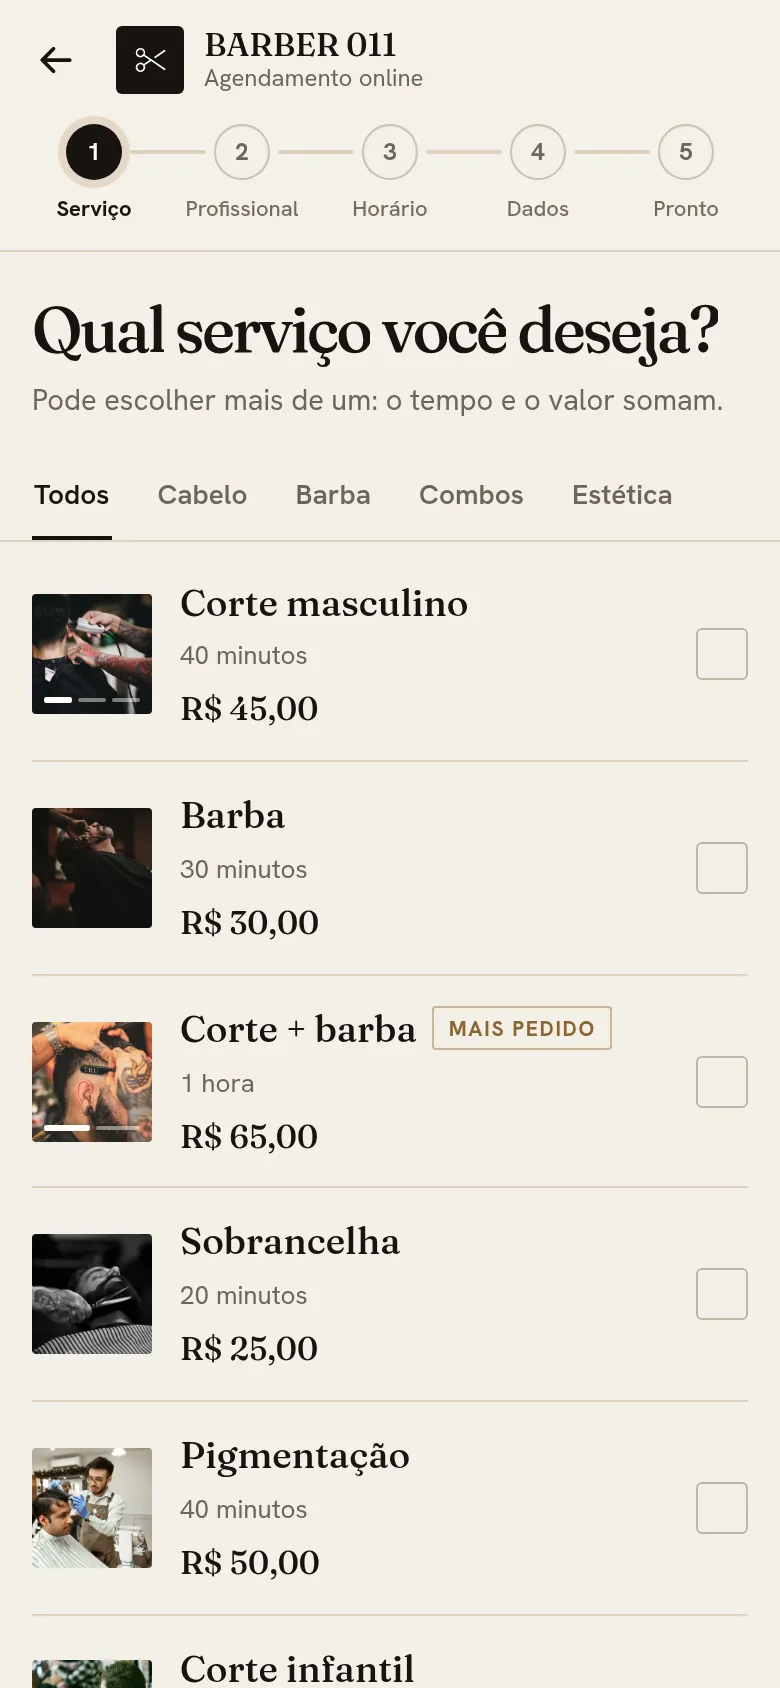
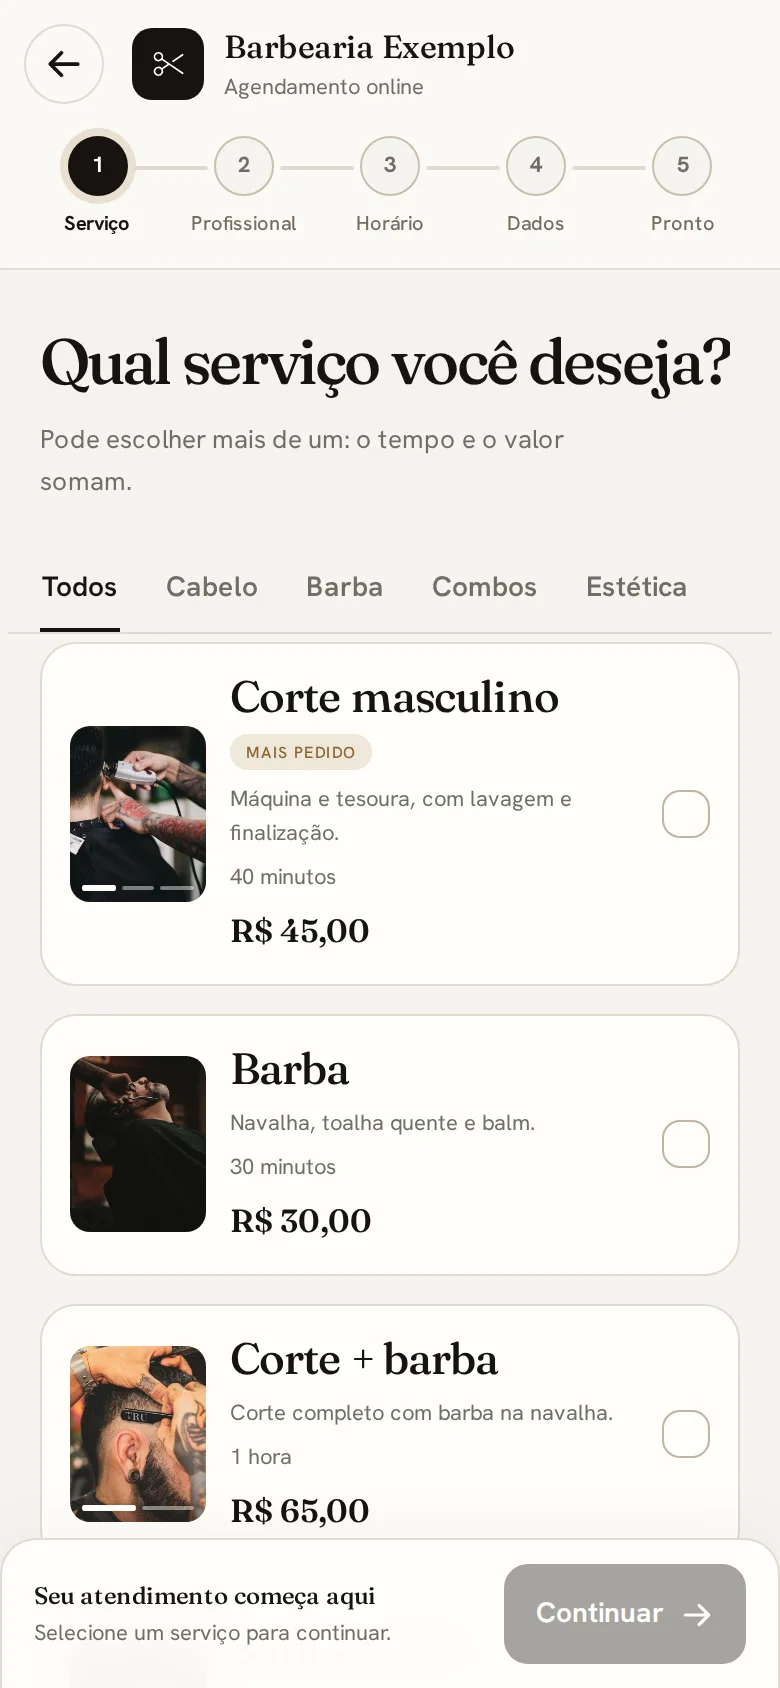
Sync StudioFlow: live demo shop on the sales site
Claude-Session: https://claude.ai/code/session_019SWBJN4ekuR9TEDpAwqbDw

diff --git a/studioflow/src/features/landing/landing.tsx b/studioflow/src/features/landing/landing.tsx
@@ -14,6 +14,7 @@ import {
 } from "@phosphor-icons/react/dist/ssr";
 import { WhatsAppIcon } from "@/components/brand-icons";
 import { legal } from "@/features/legal/legal";
+import { showcaseSlug } from "@/lib/showcase";
 import { DayStory, LiveDemo, NoShowCalculator } from "./landing-motion";
 import "./landing.css";
 
@@ -89,12 +90,17 @@ const faq = [
   ],
 ] as const;
 
-function Cta({ dark = false }: { dark?: boolean }) {
+function Cta({ dark = false, demo = false }: { dark?: boolean; demo?: boolean }) {
   return (
     <div className="lp-ctas">
       <Link href={start} className={`lp-btn ${dark ? "is-light" : ""}`}>
         Testar grátis <ArrowRight size={18} weight="bold" />
       </Link>
+      {demo && (
+        <Link href={`/${showcaseSlug}`} className="lp-btn-ghost">
+          Ver demonstração ao vivo
+        </Link>
+      )}
       {whatsapp && (
         <a href={whatsapp} className={`lp-btn-ghost ${dark ? "is-light" : ""}`} target="_blank" rel="noreferrer">
           <WhatsAppIcon size={18} /> Falar no WhatsApp
@@ -138,7 +144,7 @@ export function Landing() {
               Página própria, agenda online, lembrete no WhatsApp e uma recepcionista com IA que responde enquanto você corta.
               Tudo numa assinatura só.
             </p>
-            <Cta />
+            <Cta demo />
             <ul className="lp-trust">
               <li><Check size={16} weight="bold" /> Sem app para o cliente baixar</li>
               <li><Check size={16} weight="bold" /> Sem fidelidade</li>
@@ -146,7 +152,7 @@ export function Landing() {
             </ul>
           </div>
           <div className="lp-hero-art" aria-hidden="true">
-            <img className="lp-shot-desk" src="/landing/dashboard.webp" alt="" width={1600} height={1000} />
+            <img className="lp-shot-desk" src="/landing/salon.webp" alt="" width={1600} height={1000} />
             <LiveDemo />
           </div>
         </section>
@@ -180,6 +186,9 @@ export function Landing() {
               <li><DeviceMobile size={20} weight="duotone" /> Vira app na tela de início do cliente</li>
               <li><Bell size={20} weight="duotone" /> Lembrete no WhatsApp e por e-mail</li>
             </ul>
+            <Link href={`/${showcaseSlug}`} className="lp-btn is-outline">
+              Agendar na barbearia de exemplo <ArrowRight size={18} weight="bold" />
+            </Link>
           </div>
           <div className="lp-phone is-solo">
             <img src="/landing/phone-book.webp" alt="Tela de agendamento com serviços, fotos e preços" width={780} height={1688} loading="lazy" />
@@ -212,17 +221,17 @@ export function Landing() {
         <section className="lp-feature is-wide" data-reveal>
           <div className="lp-feature-text">
             <p className="lp-eyebrow">Painel do dono</p>
-            <h2>O dia inteiro numa tela.</h2>
+            <h2>Sua barbearia ao vivo, vista de cima.</h2>
             <p>
-              Quem está na cadeira, quem chega em seguida, quanto entrou hoje, comissão de cada barbeiro, clientes que sumiram
-              e o que a recepcionista resolveu sozinha. No computador ou no celular.
+              Cada cadeira mostra quem está sendo atendido, quanto falta e quem vem depois. Quem chegou espera no sofá.
+              Concluir e cobrar é um toque, e o caixa do dia muda na hora. No computador ou no celular.
             </p>
             <ul className="lp-list is-row">
               <li><ChartLineUp size={20} weight="duotone" /> Relatórios por canal</li>
               <li><CurrencyCircleDollar size={20} weight="duotone" /> Sinal por Pix e clube de assinatura</li>
             </ul>
           </div>
-          <img className="lp-shot-wide" src="/landing/dashboard.webp" alt="Painel do dono com o dia, recebidos e atendimentos" width={1600} height={1000} loading="lazy" />
+          <img className="lp-shot-wide" src="/landing/salon.webp" alt="Salão ao vivo: as cadeiras vistas de cima com o barbeiro, o cliente e o tempo que falta" width={1600} height={1000} loading="lazy" />
         </section>
 
         <section className="lp-feature is-wide is-reverse" data-reveal>

diff --git a/studioflow/src/features/public/public-page.tsx b/studioflow/src/features/public/public-page.tsx
@@ -27,6 +27,7 @@ import {
 import { usePublicCatalog } from "./use-public-catalog";
 import type { PublicCatalog } from "./types";
 import { money } from "@/lib/utils";
+import { showcaseSlug } from "@/lib/showcase";
 import { AssistantChat } from "./assistant-chat";
 import { businessClock, publicAccentStyle } from "./public-branding";
 import { PublicServices } from "./public-services";
@@ -204,6 +205,13 @@ export function PublicPage({
         Ir para os serviços
       </a>
       <PublicRefreshNotice error={error} refreshing={loading} retry={reload} />
+      {slug === showcaseSlug && (
+        <p className="pp-showcase">
+          Barbearia de demonstração do StudioFlow. Pode agendar: ninguém
+          recebe aviso.
+          <Link href="/">Quero a minha</Link>
+        </p>
+      )}
 
       <header className="pp-cover">
         {business.cover ? (

diff --git a/studioflow/src/features/public/public-page.css b/studioflow/src/features/public/public-page.css
@@ -37,6 +37,27 @@
   text-transform: uppercase;
 }
 
+/* The sales site's demo shop says so above the cover */
+.pp-showcase {
+  display: flex;
+  flex-wrap: wrap;
+  align-items: center;
+  justify-content: center;
+  gap: 4px 12px;
+  margin: 0;
+  padding: 10px var(--pp-gutter);
+  background: var(--pp-ink);
+  color: var(--pp-paper);
+  font-size: 14px;
+  line-height: 1.4;
+  text-align: center;
+}
+.pp-showcase a {
+  color: #d9b77a;
+  font-weight: 700;
+  text-underline-offset: 3px;
+}
+
 /* Cover: the photo, plain, with the opening hours on a paper label */
 .pp-cover {
   position: relative;

diff --git a/studioflow/src/features/landing/landing.css b/studioflow/src/features/landing/landing.css
@@ -68,6 +68,7 @@
   max-width: 1180px; margin: 0 auto; padding: 80px 16px;
 }
 .lp-feature h2, .lp-steps h2, .lp-pricing h2, .lp-faq h2 { font-size: clamp(32px, 4vw, 50px); line-height: 1.06; }
+.lp-feature-text > .lp-btn { margin-top: 26px; }
 .lp-feature-text > p:not(.lp-eyebrow) { margin: 18px 0 0; font-size: 18px; line-height: 1.6; color: var(--muted); max-width: 560px; }
 .lp-list { display: grid; gap: 12px; margin: 26px 0 0; padding: 0; list-style: none; font-size: 16px; }
 .lp-list li { display: flex; align-items: center; gap: 10px; }

diff --git a/studioflow/src/app/page.tsx b/studioflow/src/app/page.tsx
@@ -9,7 +9,7 @@ export const metadata: Metadata = {
     title: "StudioFlow · Sua barbearia agendando sozinha, 24 horas",
     description:
       "Página própria, agendamento online, lembrete no WhatsApp e recepcionista com IA para barbearias.",
-    images: ["/landing/dashboard.webp"],
+    images: ["/landing/salon.webp"],
     locale: "pt_BR",
     type: "website",
   },

diff --git a/studioflow/src/lib/showcase.ts b/studioflow/src/lib/showcase.ts
@@ -1,0 +1,5 @@
+/**
+ * The demo shop the sales site links to. Its pages are real, but it has no
+ * owner, no WhatsApp and every notice off, so a test booking reaches no one.
+ */
+export const showcaseSlug = "barbearia-exemplo";
